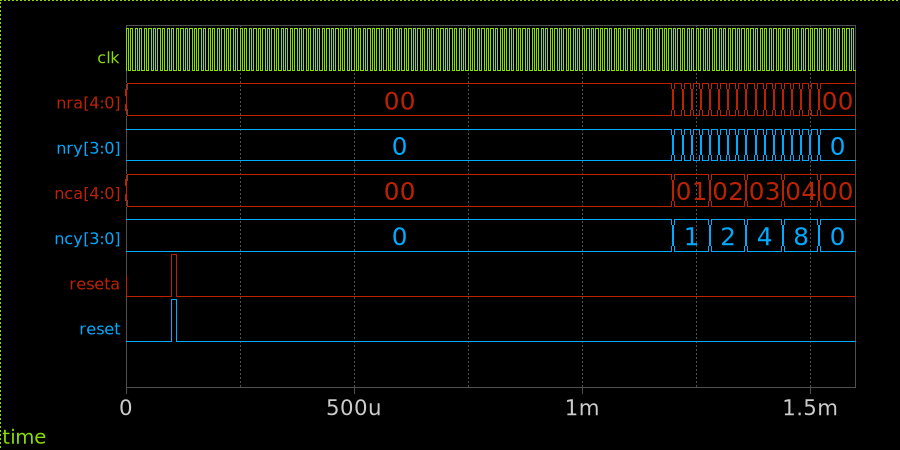
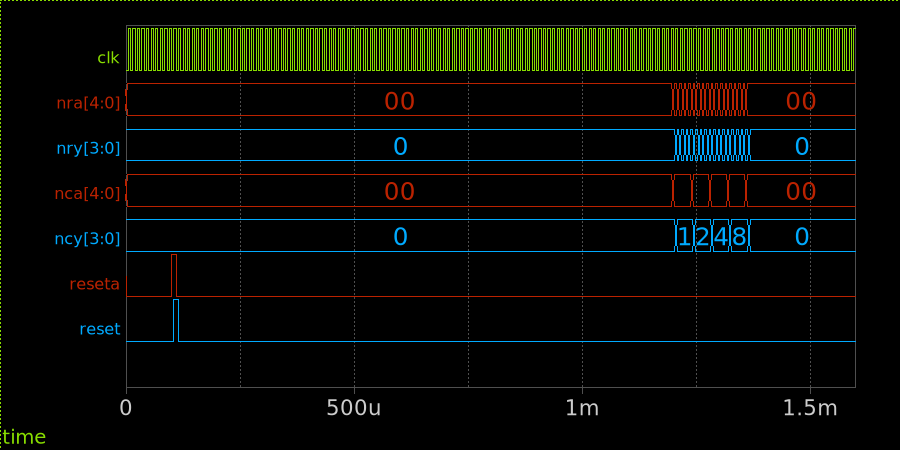
Go to 10mus pixel time

diff --git a/xschem/test/tb_total_tran.py b/xschem/test/tb_total_tran.py
@@ -5,8 +5,8 @@ import numpy as np
 
 NROWS    = 4
 NCOLUMNS = 4
-FIRST_PIXEL = 1210
-DT_PIXEL = 20
+FIRST_PIXEL = 1213
+DT_PIXEL = 10
 
 plt.rcParams['lines.linewidth'] = 0.5
 
